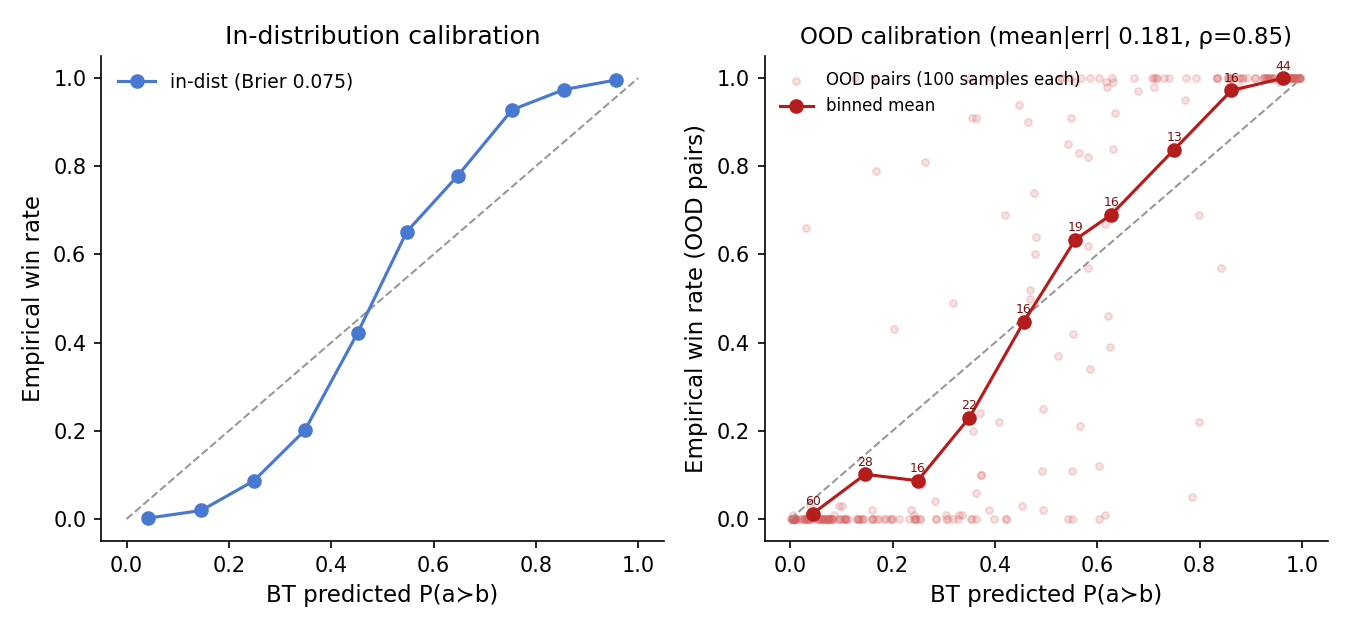
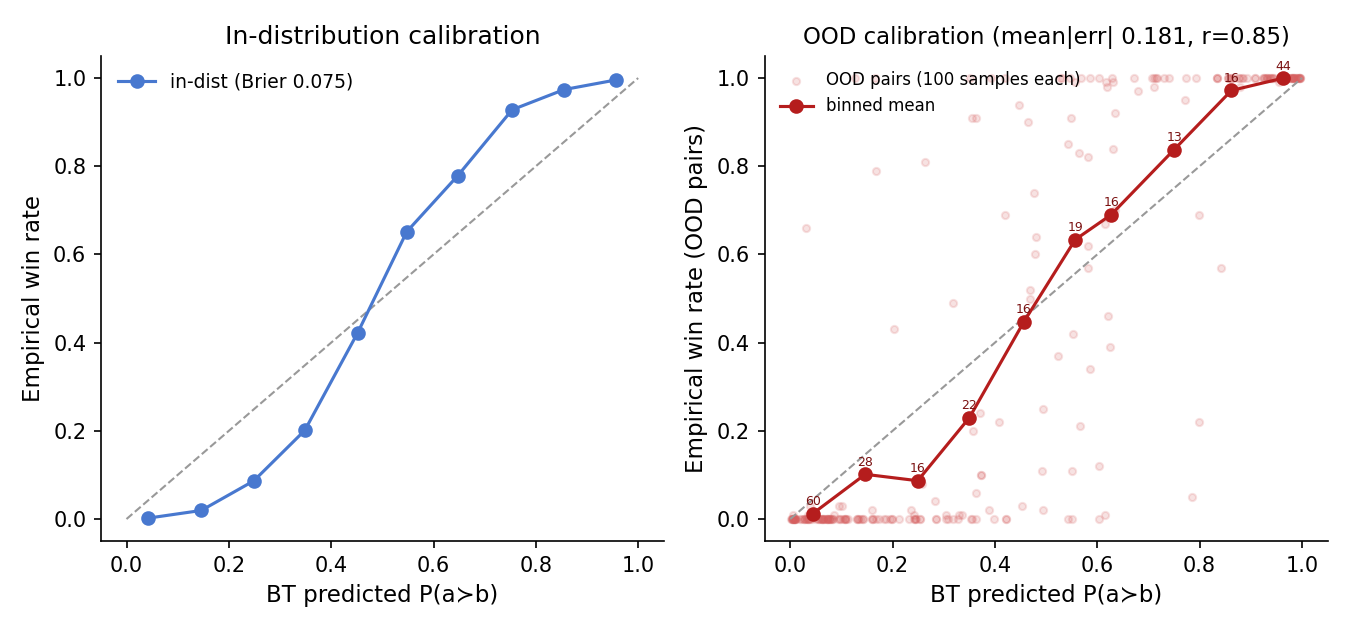
validate_bt: rename mislabeled 'spearman_like_corr' -> pearson_corr; add true spearman_corr
The OOD correlation was Pearson on probabilities (0.846), not Spearman. Now stores both:
pearson 0.846, spearman 0.813 (winner-agreement 87.6%). Propagated to opus47 dir.

Changed region(s): [[0.5911, 0.0302, 0.9644, 0.0905]]

diff --git a/experiments/claude_world_state_preferences_v0/validate_bt.py b/experiments/claude_world_state_preferences_v0/validate_bt.py
@@ -216,7 +216,8 @@ def ood_validate(
         "n_pairs": len(ps),
         "samples_per_pair": reps_per_order * 2,
         "mean_abs_err": float(np.mean(np.abs(ps - ys))),
-        "spearman_like_corr": float(np.corrcoef(ps, ys)[0, 1]) if len(ps) > 1 else None,
+        "pearson_corr": float(np.corrcoef(ps, ys)[0, 1]) if len(ps) > 1 else None,
+        "spearman_corr": float(np.corrcoef(np.argsort(np.argsort(ps)), np.argsort(np.argsort(ys)))[0, 1]) if len(ps) > 1 else None,
         "upset_rate": float(upset.sum() / (ys != 0.5).sum()) if (ys != 0.5).sum() else None,
         "decisive_upset_rate": float((upset & decisive).sum() / decisive.sum()) if decisive.sum() else None,
     }
@@ -263,7 +264,7 @@ def _plot(indist: dict, ood: dict | None, out: Path) -> None:
                          textcoords="offset points", ha="center")
         ax2.set_xlabel("BT predicted P(a≻b)", fontsize=11)
         ax2.set_ylabel("Empirical win rate (OOD pairs)", fontsize=11)
-        ax2.set_title(f"OOD calibration (mean|err| {ood['pair_level']['mean_abs_err']:.3f}, ρ={ood['pair_level']['spearman_like_corr']:.2f})", fontsize=11)
+        ax2.set_title(f"OOD calibration (mean|err| {ood['pair_level']['mean_abs_err']:.3f}, r={ood['pair_level']['pearson_corr']:.2f})", fontsize=11)
         ax2.legend(frameon=False, fontsize=8, loc="upper left")
         for s in ("top", "right"):
             ax2.spines[s].set_visible(False)
@@ -311,7 +312,7 @@ def main():
                            args.seed, args.fit_manifest_path, args.anthropic_num_threads)
         pl = ood["pair_level"]
         print(f"OOD: {pl['n_pairs']} pairs ({pl['samples_per_pair']} samples each), "
-              f"mean|err| {pl['mean_abs_err']:.4f}, corr {pl['spearman_like_corr']:.3f}, "
+              f"mean|err| {pl['mean_abs_err']:.4f}, r {pl['pearson_corr']:.3f} (spearman {pl['spearman_corr']:.3f}), "
               f"upset {100 * pl['upset_rate']:.1f}% (decisive {100 * pl['decisive_upset_rate']:.1f}%)")
         for s, v in ood["by_stratum"].items():
             print(f"  [{s}] n={v['n']} mean|err|={v['mean_abs_err']:.4f}")

diff --git a/experiments/claude_world_state_preferences_v0_opus47/validate_bt.py b/experiments/claude_world_state_preferences_v0_opus47/validate_bt.py
@@ -216,7 +216,8 @@ def ood_validate(
         "n_pairs": len(ps),
         "samples_per_pair": reps_per_order * 2,
         "mean_abs_err": float(np.mean(np.abs(ps - ys))),
-        "spearman_like_corr": float(np.corrcoef(ps, ys)[0, 1]) if len(ps) > 1 else None,
+        "pearson_corr": float(np.corrcoef(ps, ys)[0, 1]) if len(ps) > 1 else None,
+        "spearman_corr": float(np.corrcoef(np.argsort(np.argsort(ps)), np.argsort(np.argsort(ys)))[0, 1]) if len(ps) > 1 else None,
         "upset_rate": float(upset.sum() / (ys != 0.5).sum()) if (ys != 0.5).sum() else None,
         "decisive_upset_rate": float((upset & decisive).sum() / decisive.sum()) if decisive.sum() else None,
     }
@@ -263,7 +264,7 @@ def _plot(indist: dict, ood: dict | None, out: Path) -> None:
                          textcoords="offset points", ha="center")
         ax2.set_xlabel("BT predicted P(a≻b)", fontsize=11)
         ax2.set_ylabel("Empirical win rate (OOD pairs)", fontsize=11)
-        ax2.set_title(f"OOD calibration (mean|err| {ood['pair_level']['mean_abs_err']:.3f}, ρ={ood['pair_level']['spearman_like_corr']:.2f})", fontsize=11)
+        ax2.set_title(f"OOD calibration (mean|err| {ood['pair_level']['mean_abs_err']:.3f}, r={ood['pair_level']['pearson_corr']:.2f})", fontsize=11)
         ax2.legend(frameon=False, fontsize=8, loc="upper left")
         for s in ("top", "right"):
             ax2.spines[s].set_visible(False)
@@ -311,7 +312,7 @@ def main():
                            args.seed, args.fit_manifest_path, args.anthropic_num_threads)
         pl = ood["pair_level"]
         print(f"OOD: {pl['n_pairs']} pairs ({pl['samples_per_pair']} samples each), "
-              f"mean|err| {pl['mean_abs_err']:.4f}, corr {pl['spearman_like_corr']:.3f}, "
+              f"mean|err| {pl['mean_abs_err']:.4f}, r {pl['pearson_corr']:.3f} (spearman {pl['spearman_corr']:.3f}), "
               f"upset {100 * pl['upset_rate']:.1f}% (decisive {100 * pl['decisive_upset_rate']:.1f}%)")
         for s, v in ood["by_stratum"].items():
             print(f"  [{s}] n={v['n']} mean|err|={v['mean_abs_err']:.4f}")
